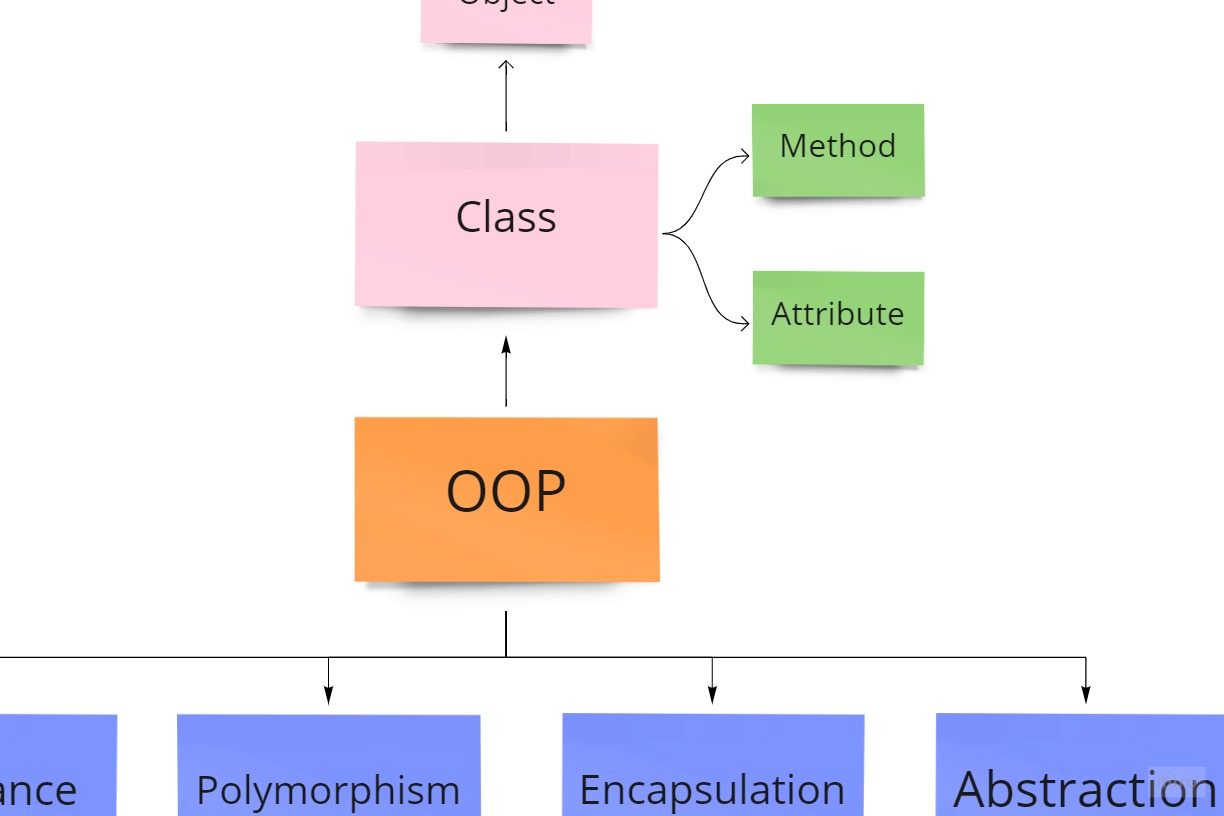
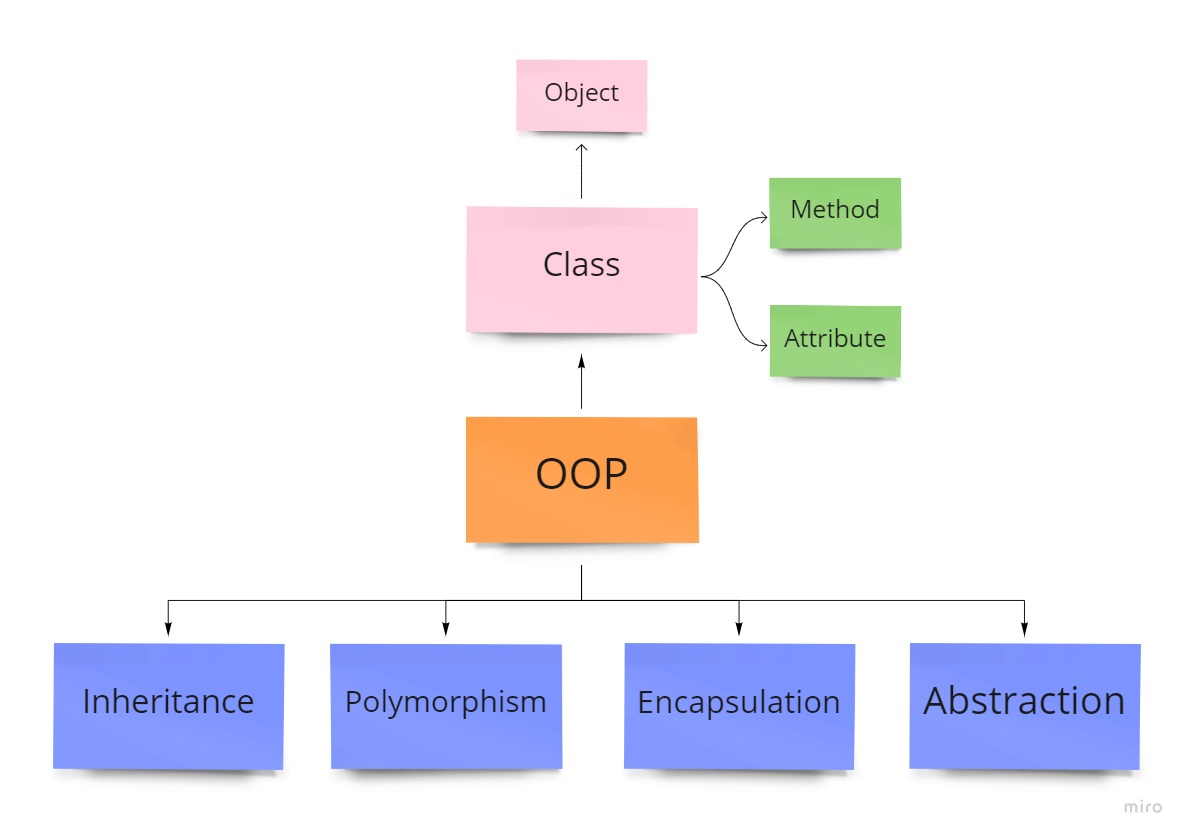
add image

diff --git a/_posts/2022-01-12-oop-pillars.md b/_posts/2022-01-12-oop-pillars.md
@@ -4,7 +4,7 @@ title: OOP - 객체지향형 프로그래밍
 tag: Programming
 image: /assets/images/oop-pillars.jpg
 ---
-![]({{ page.image | relative_url }}){: width="250" }
+![]({{ page.image | relative_url }})
 
 # Programming Paradigm & OOP
 
